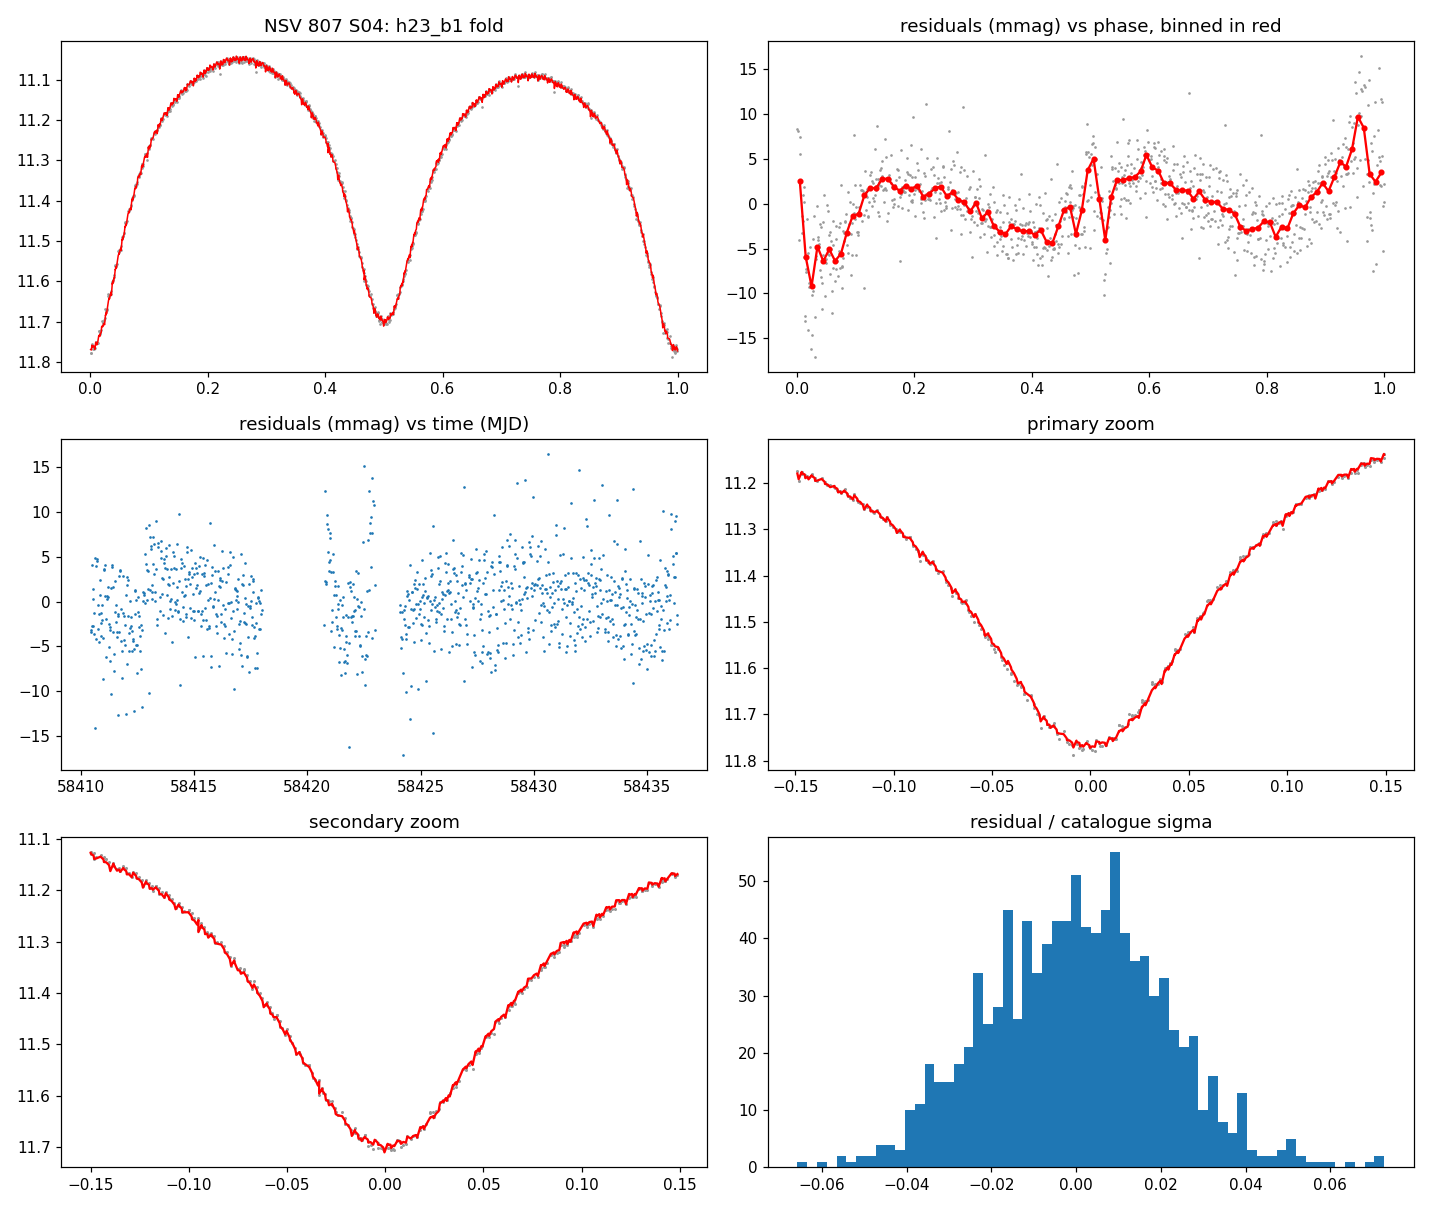
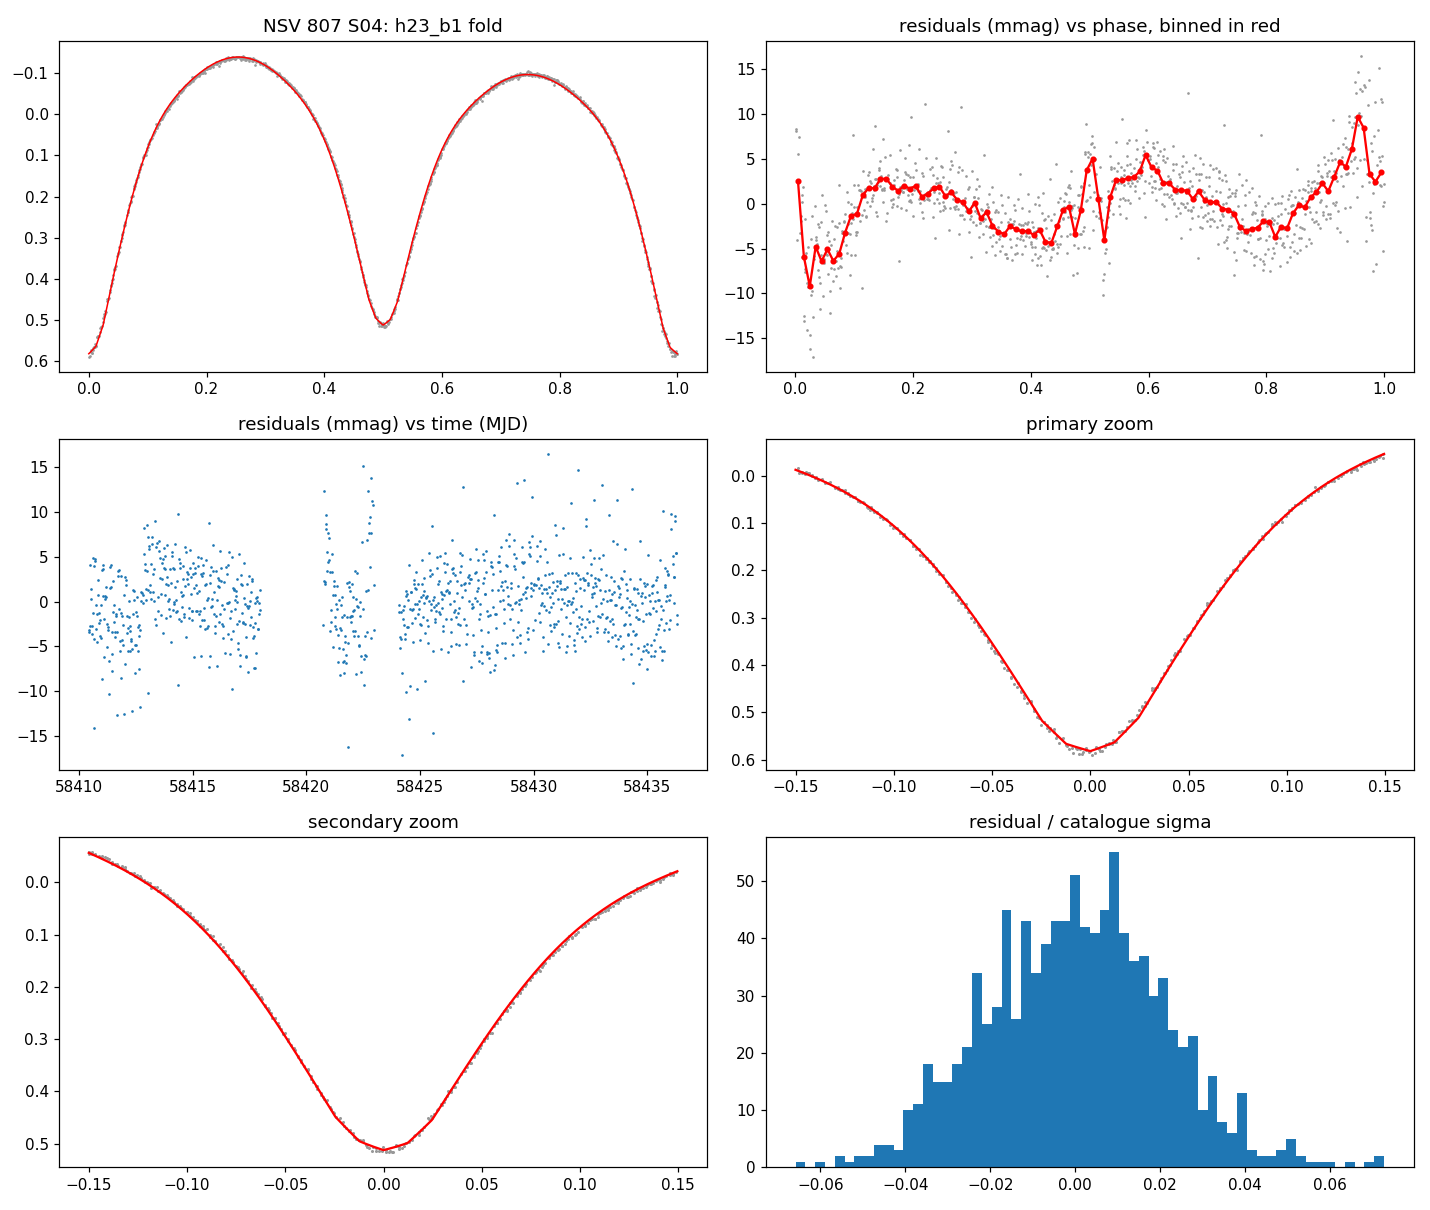
diagnose_fit: draw the pure template, not data minus residuals

diff --git a/examples/diagnose_fit.py b/examples/diagnose_fit.py
@@ -94,8 +94,11 @@ def main() -> None:
 
     fig, ax = plt.subplots(3, 2, figsize=(13, 11))
     o = np.argsort(ph)
-    ax[0, 0].plot(ph, pl.mag, ".", ms=1.5, color="0.6")
-    ax[0, 0].plot(ph[o], (pl.mag - res)[o], "r-", lw=1)
+    grid = np.linspace(0.0, 1.0, 2001)
+    curve = pl.model(grid, ad.p)  # pure template, no baseline
+    flat = pl.mag - (yhat - tmpl)  # data with the fitted baseline removed
+    ax[0, 0].plot(ph, flat, ".", ms=1.5, color="0.6")
+    ax[0, 0].plot(grid, curve, "r-", lw=1)
     ax[0, 0].invert_yaxis()
     ax[0, 0].set_title(f"{label}: {r.best.name} fold")
     ax[0, 1].plot(ph, 1e3 * res, ".", ms=1.5, color="0.6")
@@ -107,9 +110,11 @@ def main() -> None:
         x = (ph - c + 0.5) % 1 - 0.5
         a = ax[1 + k, 1] if k == 0 else ax[2, 0]
         s = np.abs(x) < 0.15
-        a.plot(x[s], pl.mag[s], ".", ms=2, color="0.6")
-        oo = np.argsort(x[s])
-        a.plot(x[s][oo], (pl.mag - res)[s][oo], "r-")
+        a.plot(x[s], flat[s], ".", ms=2, color="0.6")
+        g = (grid - c + 0.5) % 1 - 0.5
+        gs = np.abs(g) < 0.15
+        og = np.argsort(g[gs])
+        a.plot(g[gs][og], curve[gs][og], "r-")
         a.invert_yaxis()
         a.set_title("primary zoom" if k == 0 else "secondary zoom")
     ax[2, 1].hist(res / sig, bins=60)
